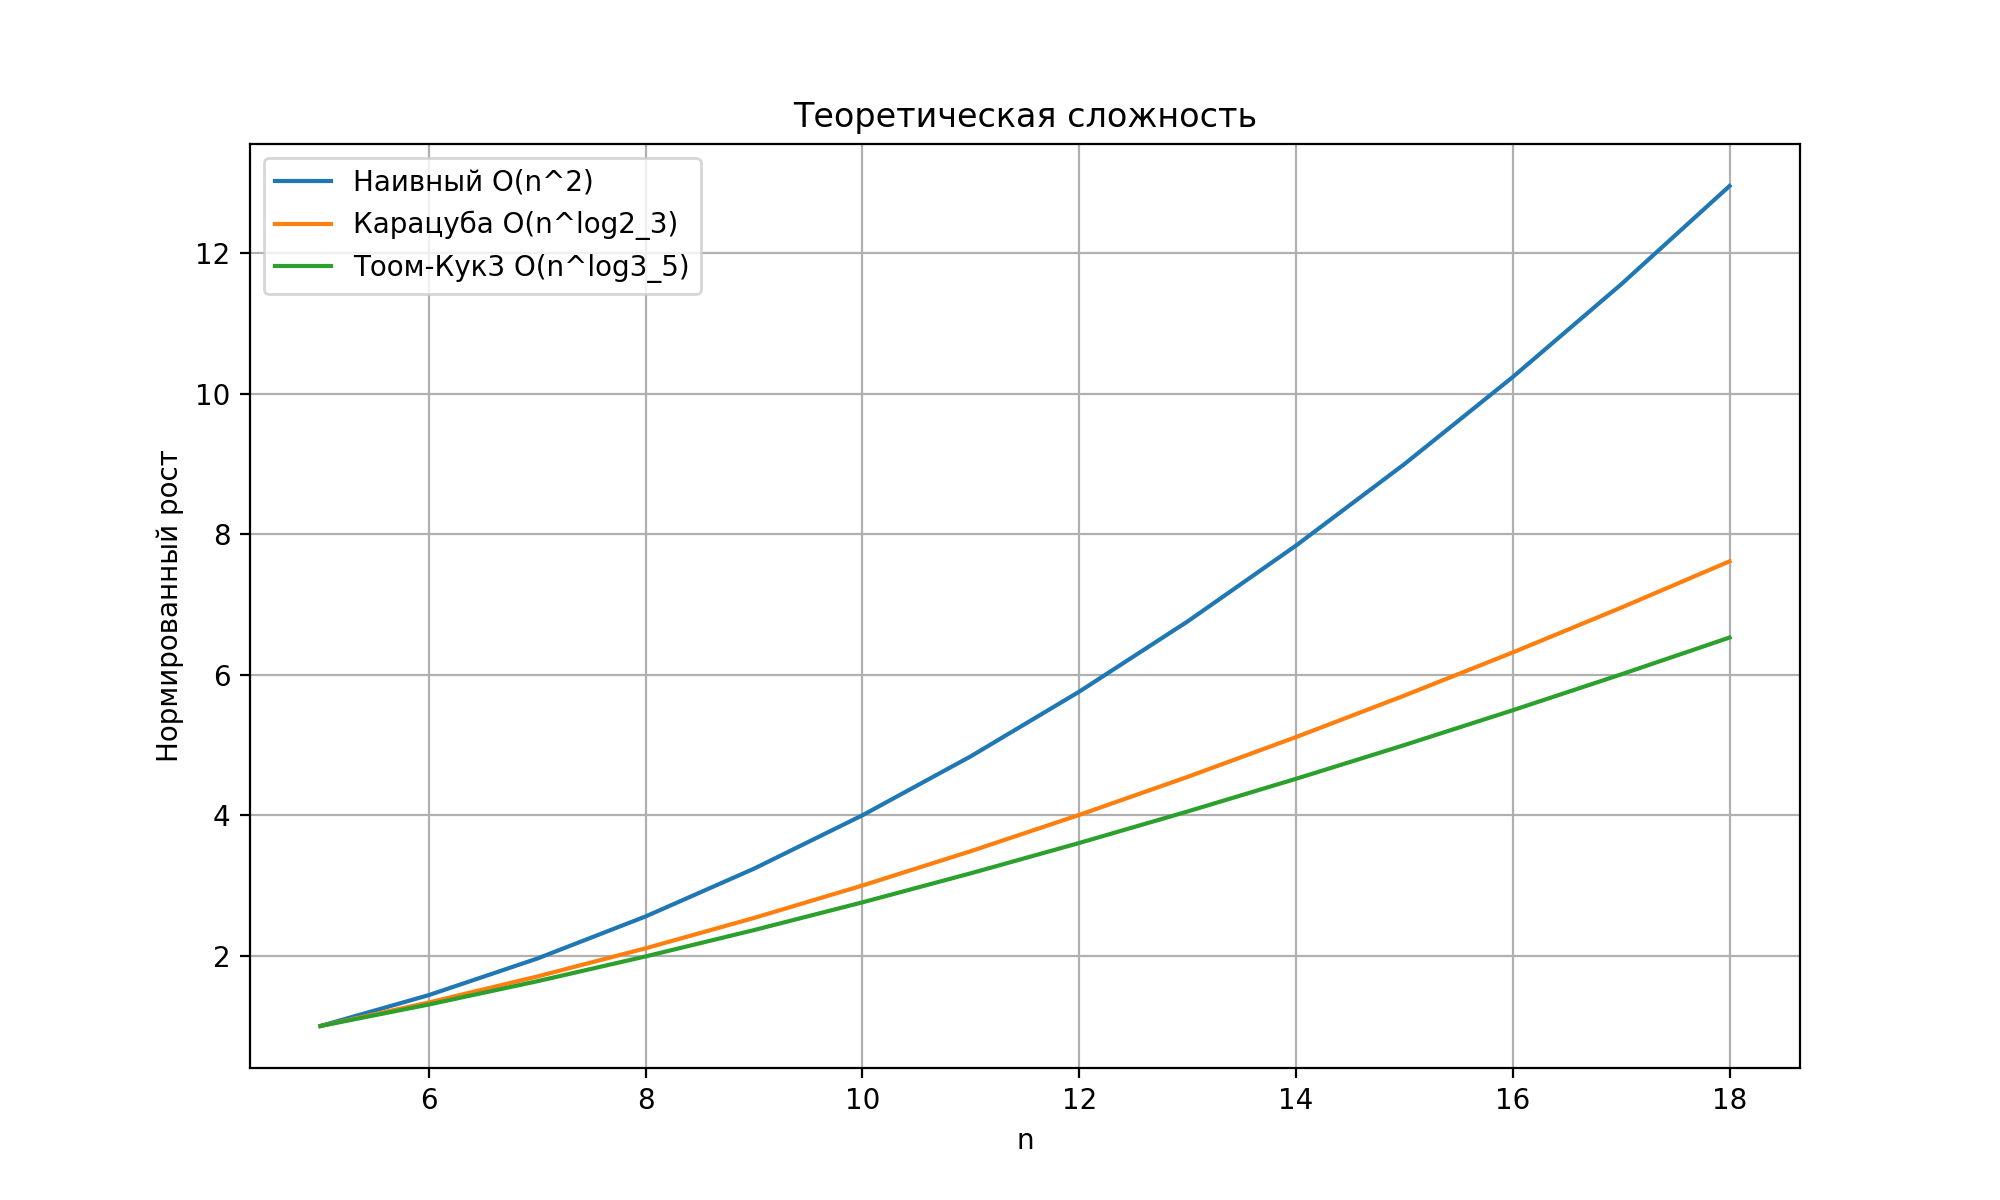
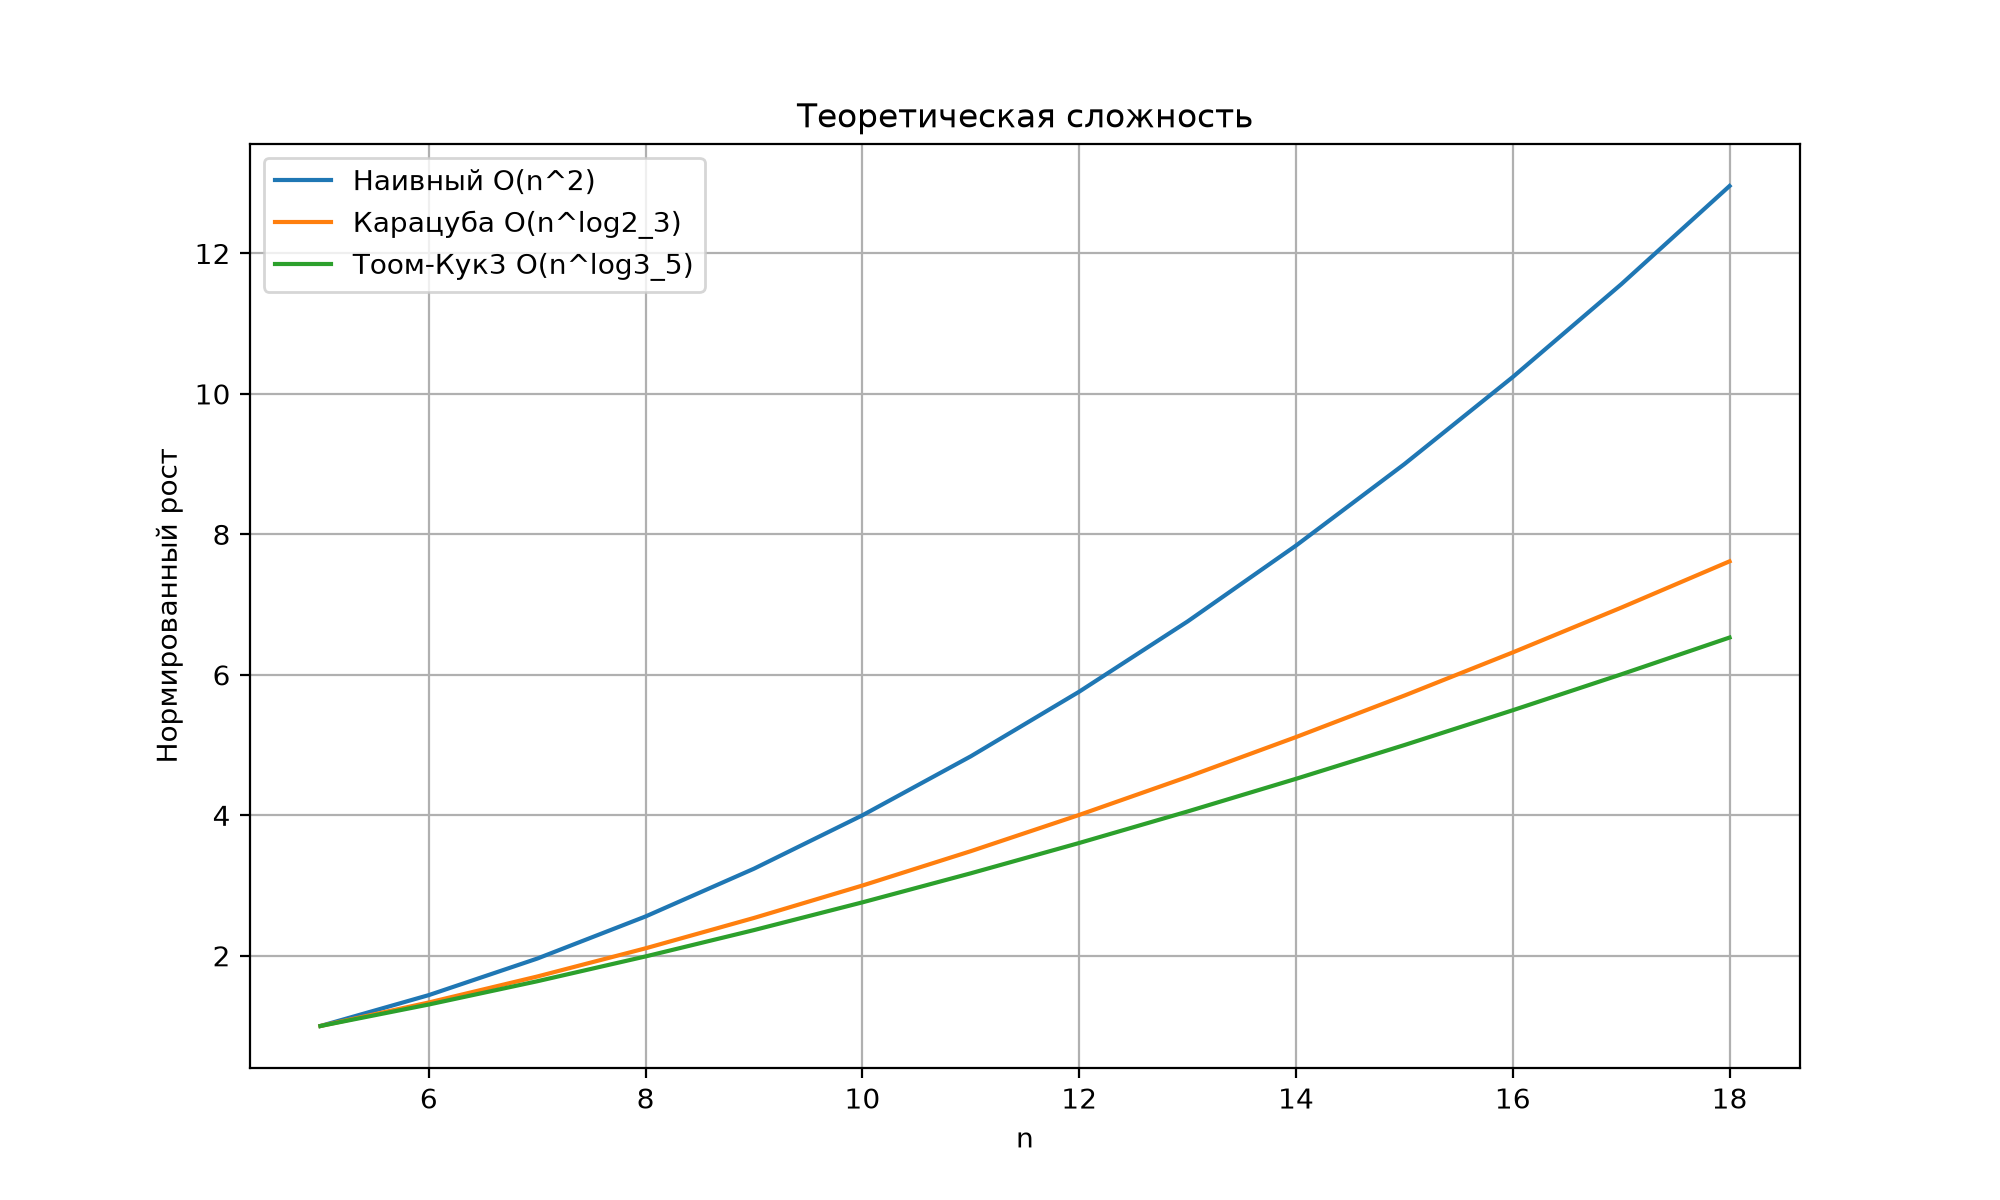
add some new tests, fix readme

Changed region(s): [[0.124, 0.1233, 0.372, 0.2467], [0.403, 0.0925, 0.62, 0.1233], [0.062, 0.4008, 0.093, 0.5242]]

diff --git a/lab01-polynomial-multiplication/algorithms_test.go b/lab01-polynomial-multiplication/algorithms_test.go
@@ -70,6 +70,24 @@ func TestPolynomialMultiplication(t *testing.T){
 			b:Polynomial{1, 0, 0, 1},
 			expected:Polynomial{1, 0, 0, 1, 1, 0, 0, 1},
 		},
+		{
+			name:     "empty left polynomial",
+			a:        Polynomial{},
+			b:        Polynomial{1, 2, 3},
+			expected: Polynomial{},
+		},
+		{
+			name:     "empty right polynomial",
+			a:        Polynomial{1, 2, 3},
+			b:        Polynomial{},
+			expected: Polynomial{},
+		},
+		{
+			name:     "both polynomials empty",
+			a:        Polynomial{},
+			b:        Polynomial{},
+			expected: Polynomial{},
+		},
 	}
 
 	//все реализации должны давать один и тот же правильный результат
@@ -104,7 +122,7 @@ func TestRecursiveMultiplication(t *testing.T){
 	a:=make(Polynomial, 40)
 	b:=make(Polynomial, 40)
 
-	for i:=range a {
+	for i:=range a{
 		a[i]=float64(i%7 - 3)
 		b[i]=float64(i%5 - 2)
 	}
